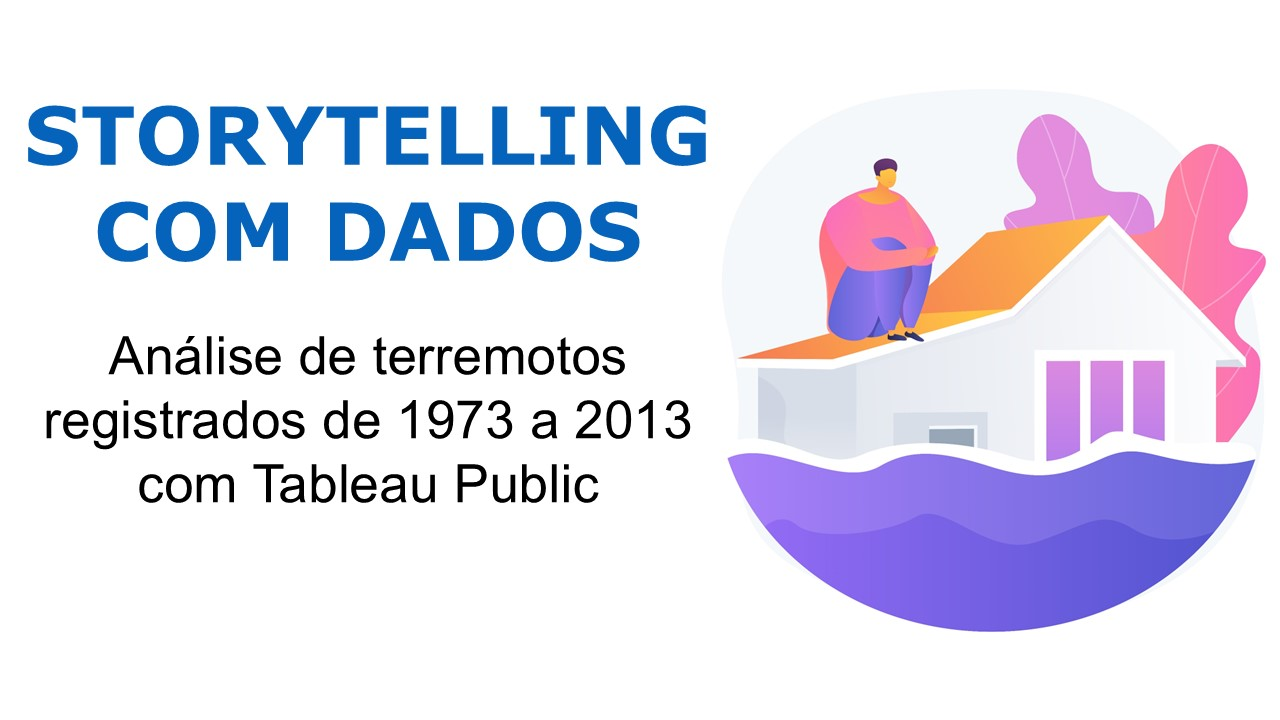
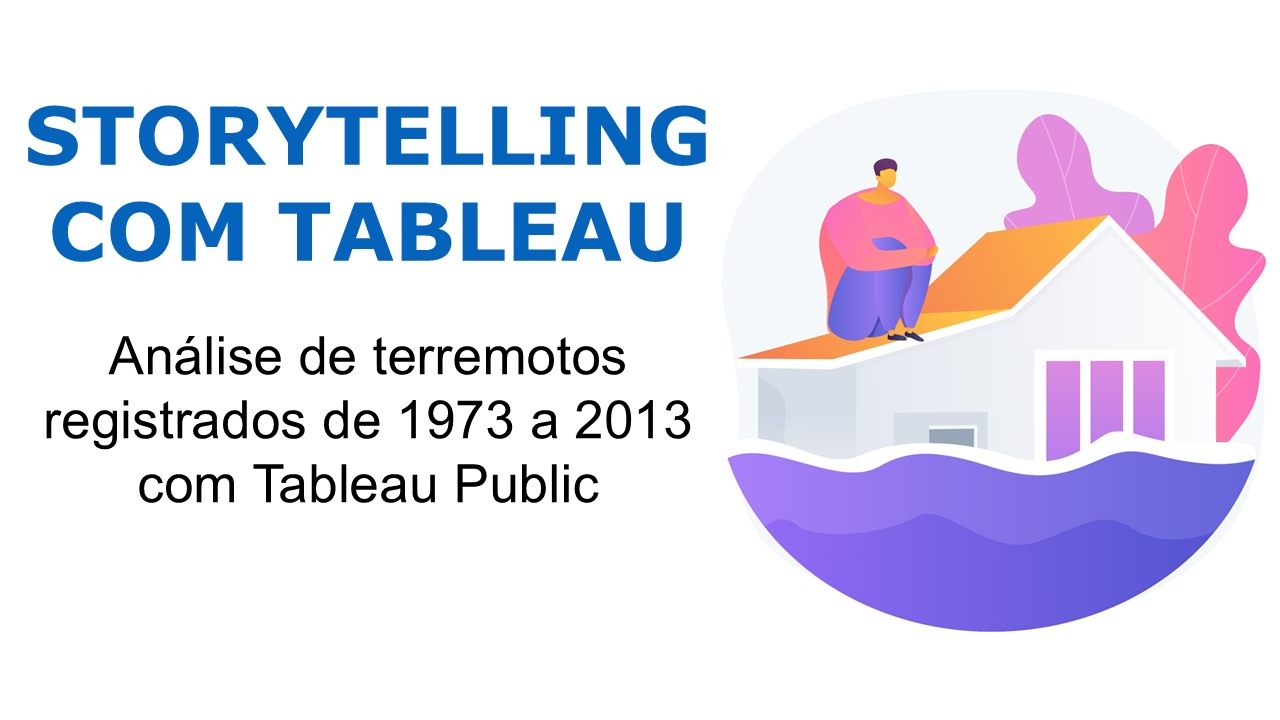
update card tableau

Changed region(s): [[0.0312, 0.275, 0.5312, 0.3667]]

diff --git a/index.html b/index.html
@@ -450,7 +450,7 @@
               <li data-filter="*" class="filter-active">Tudo</li>
               <li data-filter=".filter-eda">Análise Exploratória</li>
               <li data-filter=".filter-dashboards">Dashboard</li>
-              <li data-filter=".filter-storytelling">Storytelling com Dados</li>              
+              <li data-filter=".filter-storytelling">Storytelling</li>              
               <li data-filter=".filter-planilha">Planilha</li>
               <li data-filter=".filter-testeab">Teste A/B</li>
               <li data-filter=".filter-timeseries">Série Temporal</li>
